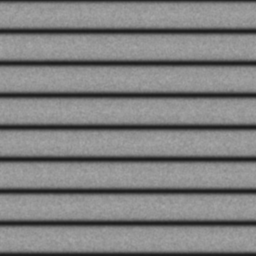
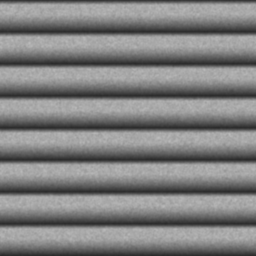
cabin777 shell w13 fixes (from A 8.4 / B 8.5, no high): pleat tile as a ramp (quick rise, lit crest, long shaded fall to ~x0.55 sRGB; omaat_room24 lit / shaded faces ~50/50, was a 25 % notch); door viewing window 0.26 x 0.58 on the same centre with its own cream shade pulled ~0.13 m down and a dark 
Claude-Session: https://claude.ai/code/session_01YQtrXVPx5fVHiK94LDZrQK

diff --git a/cabin777/src/07_shell.js b/cabin777/src/07_shell.js
@@ -15,7 +15,7 @@ const MAT = {
   dado: { c: '#5c6069', r: 0.6, l: LAYER.plastic },             // QA w3: dado/wall 0.25 vs ~0.36; w5: rendered 0.52, photos 0.40-0.49 (py_37301/37303) [V]
   // louvre slats a little darker than the panel over a dark plenum: the grille field reads darker than the dado
   // (py_37303 grille #2e3643 vs dado #455162; QA w1: slats and panel rendered the same) [V]
-  grille: { c: '#63666d', r: 0.55 },                           // QA w5: follows the darker dado
+  grille: { c: '#80838b', r: 0.5 },                            // QA w5: follows the darker dado; w13b: louvres near invisible (cv 0.02 vs 0.45 py_37303) -> lit slats
   ceiling: { c: '#f1f0ec', r: 0.75, l: LAYER.plastic },
   bin: { c: '#e6e4df', r: 0.42, l: LAYER.plastic },
   binDoor: { c: '#eeede9', r: 0.34, l: LAYER.plastic },
@@ -125,7 +125,7 @@ const REC_Y = { ...REC, hw: 0.222, top: 0.565, bot: -0.49, rTop: 0.15, rBot: 0.1
 const WMAT = {
   lining: { c: '#99948b', r: 0.5 },           // grey tunnel lining round the pane; QA w5/w6: rendered 0.62-0.86 of the bezel, tt_window 0.58-0.64 [V]
   seam: { c: '#b3b1ac', r: 0.6 },                               // sidewall panel joint, every second window
-  grilleBack: { c: '#43474f', r: 0.8 },                         // QA w3: grille/panel 0.57-0.69 vs ~0.85 (py_37303)                         // plenum behind the louvres, keeps their depth [A]
+  grilleBack: { c: '#2a2d33', r: 0.8 },                         // w13b: darker slots between the lit slats                         // QA w3: grille/panel 0.57-0.69 vs ~0.85 (py_37303)                         // plenum behind the louvres, keeps their depth [A]
   // QA w2: the grille is a cut-out in the dado panel; its rounded edge is a low lip at or below the panel tone, not a
   // light bezel (py_37303 crop: no light frame; py_37301's lighter rim is a reflection) [V]
   grilleFrame: { c: '#5d6067', r: 0.5 },
@@ -645,9 +645,11 @@ function buildShell(gl, layout) {
       const c = CAB.doors[di];
       // w9: FORWARD of centre (from_monuments w7: real photos lalf_133 / lalf_134 of door 2L from the galley passage show the
       // window forward of the grip; the face-on frame had been read mirrored) [V]
-      const cellW = 0.50, wz = c - 0.30;   // 0.30 clears the housing rim (w9b)
-      // QA w12b: glass aspect 0.42 vs ~0.50 (lalf_134) -> reveal 0.23 wide [V: ratio]
-      const dp = windowCellPattern(cellW, 0.23, 0.46, 0.055, 0.98, null, [[...WALL.bottomRows, 0.62], 1.36]);
+      const cellW = 0.54, wz = c - 0.30;   // 0.30 clears the housing rim (w9b)
+      // QA w12b: glass aspect 0.42 vs ~0.50 (lalf_134); w13a: still ~15 % narrow, 20 % short and low against the red
+      // handle arc on the same door; w13b: ~0.75 of lalf_133's size, bottom down to the assist bar -> reveal 0.26 x 0.58
+      // on the same centre (w13a asked for higher, w13b lower) [V: ratios]
+      const dp = windowCellPattern(cellW, 0.26, 0.58, 0.06, 0.98, null, [[...WALL.bottomRows, 0.62], 1.36]);
       const topRows = [1.36, 1.60, 1.80, 2.02];
       windowCell(g, side, wz, dp, topRows);
       // deep reveal necking to the glass over 9 cm, then a dark seal rim; the sky shows past it
@@ -656,10 +658,13 @@ function buildShell(gl, layout) {
       shell.add(ringLoft([[hr, 0], [sc(0.93, 0.95), 0.015], [sc(0.72, 0.72), 0.09]], dmap, dh), null, MAT.door);
       shell.add(ringLoft([[sc(0.72, 0.72), 0.09], [sc(0.68, 0.69), 0.092]], dmap, dh), null, WMAT.doorSeal);  // QA w12b: light rim, no dark ring (lalf_134)
       // glass: the cabin pane mapped into the seal (0.136 x 0.317 m) as extra glass instances (QA w4 / w5 low: no glass)
-      const S = M4.trs(0, 0, 0, 0, 0, 0, (0.68 * 0.23) / W.w, (0.69 * 0.46) / W.h, 1);
+      const S = M4.trs(0, 0, 0, 0, 0, 0, (0.68 * 0.26) / W.w, (0.69 * 0.58) / W.h, 1);
       doorGlass[side > 0 ? 'R' : 'L'].push(M4.mul(M4.trs(0, 0, wz), M4.mul(windowFrame(side, 0.093, dp.vc - W.yc), M4.mul(S, M4.invert(windowFrame(side, 0.106))))));
-      // cream shade tab inside the top of the glass (lalf_134) [A: size]
-      shell.add(gRBox(0.10, 0.02, 0.01, 0.004, 1), M4.mul(M4.trs(0, 0, wz), windowFrame(side, 0.08, dp.vc - W.yc + 0.69 * 0.46 / 2 - 0.012)), MAT.door);
+      // the window's own cream shade, pulled ~0.13 m down, with a dark finger slot at its hem (lalf_133 / 134; w13a / b:
+      // was a thin 20 mm bar) [V: tone; A: size]
+      const tabF = M4.mul(M4.trs(0, 0, wz), windowFrame(side, 0.087, dp.vc - W.yc + 0.69 * 0.58 / 2 - 0.065));
+      shell.add(gRBox(0.185, 0.13, 0.006, 0.004, 1), tabF, MAT.door);
+      shell.add(gBox(0.05, 0.008, 0.004), M4.mul(tabF, M4.trs(0, -0.05, -0.003)), MAT.darkPlastic);
       const vset = [...new Set([...dp.rows.slice(0, -1), ...dp.sideV.map((v) => v + dp.vc), ...topRows.slice(1)].map((v) => +v.toFixed(5)))].sort((a, b) => a - b);
       if (wz - cellW / 2 - zn.z0 > 1e-3) wallGrid(g, side, [zn.z0, wz - cellW / 2], vset);
       if (zn.z1 - (wz + cellW / 2) > 1e-3) wallGrid(g, side, [wz + cellW / 2, zn.z1], vset);

diff --git a/cabin777/test/make_swatches.py b/cabin777/test/make_swatches.py
@@ -469,17 +469,18 @@ def s_pleat():
     beat into moire on the 3rd-7th windows; w12a also measured its close-up contrast at cv 0.14 vs 0.33 on omaat_room24).
     07_shell.js shadePanelGeo: 31 pleats over the 0.445 m opening, closed blackout valleys at world y = 0.795846 + k * 0.0144755
     (measured in the page, the same at every window) [D]. The tile holds 8 periods (0.115804 m) on its v axis (world y
-    in the triplanar x / z projections), phase-locked to those valleys: a dark valley line ~25 % of the period at ~x0.45 in sRGB
-    (x0.2 linear; omaat_room24 crisp dark valley lines, sRGB cv 0.33) [V: contrast; A: width], a faint lit crest and a fine fabric grain."""
+    in the triplanar x / z projections), phase-locked to those valleys: a ramp from the lit crest down to a
+    valley at ~x0.55 in sRGB (omaat_room24, sRGB cv 0.33-0.35) [V: contrast; A: profile], a faint lit crest and a fine fabric grain."""
     n = 256; period = 0.0144755; size = 8 * period; y0 = 0.795846
     i = np.arange(n)[:, None] + 0.5
     ph = ((i / n * size - y0) / period) % 1.0                       # 0 at a valley
-    d = np.minimum(ph, 1 - ph)                                      # distance to the nearest valley, in periods
-    valley = np.exp(-0.5 * (d / 0.075) ** 2)                        # ~25 % of the period above half depth
-    crest = np.exp(-0.5 * ((d - 0.5) / 0.12) ** 2)
+    # w13a: a narrow notch read as grooves on flat slats; omaat_room24 alternates lit and shaded faces ~50/50 -> a ramp:
+    # quick rise out of the valley (20 %), lit crest, then a long shaded fall (55 %) back into the next valley [V: profile]
+    rise = np.clip(ph / 0.2, 0, 1); fall = np.clip((ph - 0.45) / 0.55, 0, 1)
+    f = np.where(ph < 0.2, rise * rise * (3 - 2 * rise), 1 - fall ** 1.3)
     rng = np.random.default_rng(5)
     grain = _blur_wrap(rng.standard_normal((n, n)), 0.8)
-    r = (1 - 0.8 * valley + 0.05 * crest) * (1 + 0.025 * grain / grain.std())
+    r = (0.27 + 0.73 * f) * (1 + 0.025 * grain / grain.std())       # valley ~x0.55 of the crest in sRGB
     r = np.broadcast_to(r, (n, n)) / r.mean()
     print('s_pleat cv', round(float(r.std()), 3), 'valley/crest', round(float(r.min() / r.max()), 3))
     out = np.clip(np.repeat(r[:, :, None], 3, 2) / 2, 0, 1)
